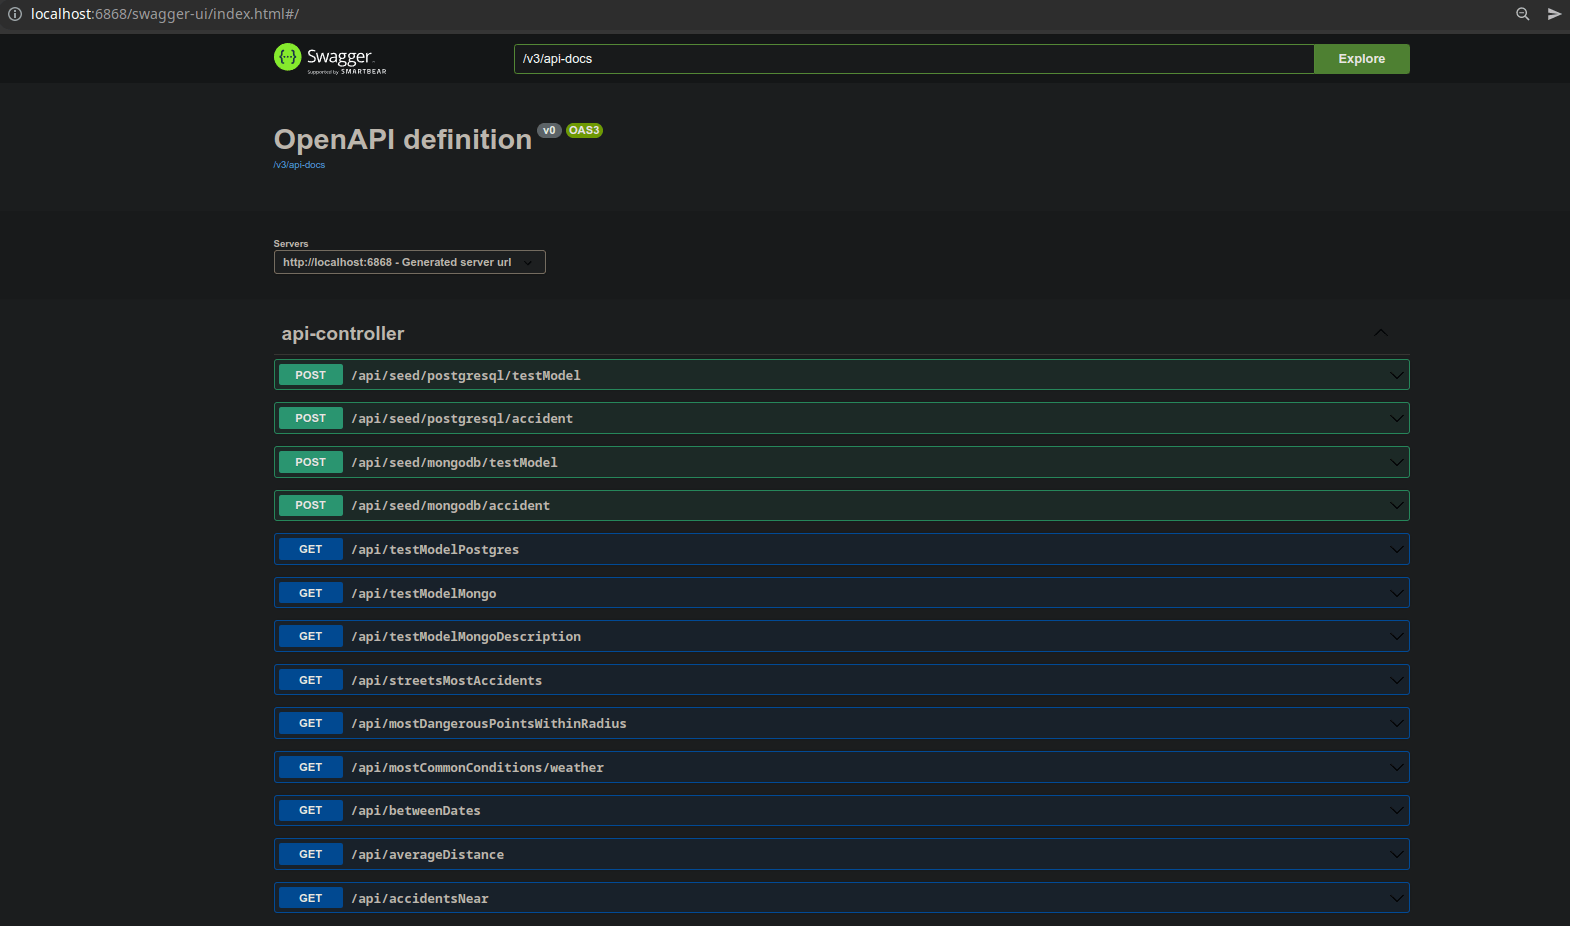
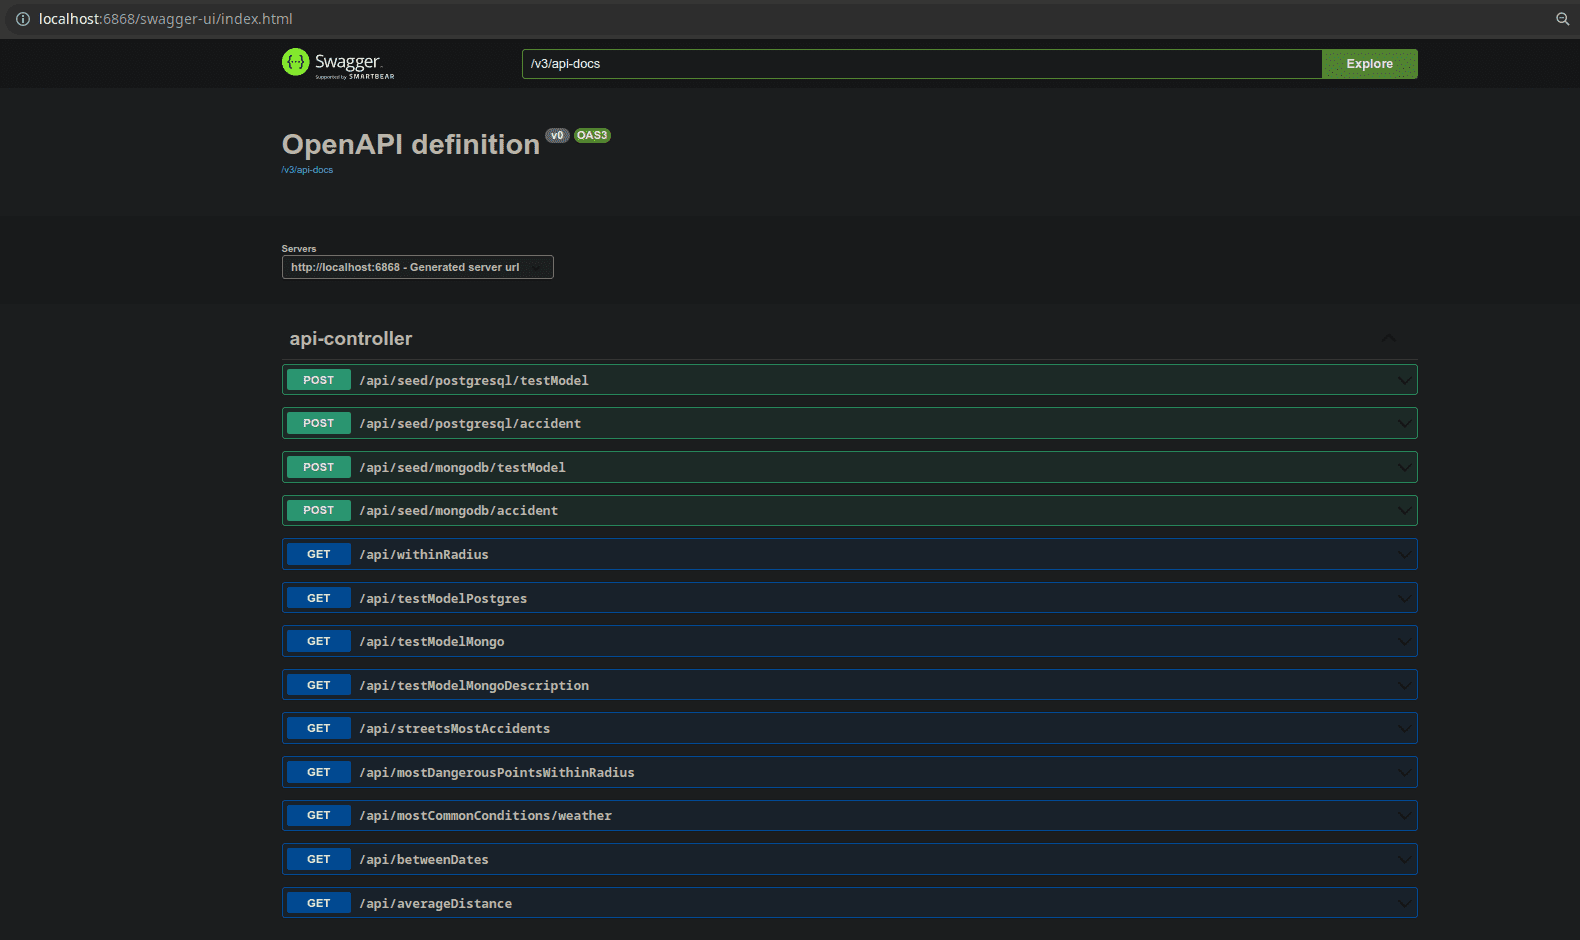
feat: add query & endpoint withinRadius, remove accidentsNear

diff --git a/bbdd2PromocionApp/src/main/java/com/bbdd2promocion/api/APIController.java b/bbdd2PromocionApp/src/main/java/com/bbdd2promocion/api/APIController.java
@@ -12,9 +12,10 @@ import org.springframework.batch.core.JobParametersInvalidException;
 import org.springframework.batch.core.repository.JobExecutionAlreadyRunningException;
 import org.springframework.batch.core.repository.JobInstanceAlreadyCompleteException;
 import org.springframework.batch.core.repository.JobRestartException;
+import org.springframework.data.geo.Circle;
 import org.springframework.data.geo.Distance;
 import org.springframework.data.geo.Metrics;
-import org.springframework.data.mongodb.core.geo.GeoJsonPoint;
+import org.springframework.data.geo.Point;
 import org.springframework.format.annotation.DateTimeFormat;
 import org.springframework.http.HttpStatus;
 import org.springframework.http.ResponseEntity;
@@ -108,15 +109,17 @@ public class APIController {
 		return new ResponseEntity<>(this.getTestModelService().findAllMongo(), HttpStatus.OK);
 	}
 
-	@GetMapping("/accidentsNear")
-	public ResponseEntity<List<Accident>> getAccidentsNear(
+	@GetMapping("/withinRadius")
+	public ResponseEntity<List<Accident>> getAccidentsWithinRadius(
 			@RequestParam(name = "longitude") String longitude,
 			@RequestParam(name = "latitude") String latitude,
-			@RequestParam(name = "radius") String distance
+			@RequestParam(name = "radius") String radius
 	) {
-		return new ResponseEntity<>(this.getAccidentService().findByStartLocationNear(
-				new GeoJsonPoint(Double.parseDouble(longitude), Double.parseDouble(latitude)),
-				new Distance(Double.parseDouble(distance), Metrics.KILOMETERS)
+		return new ResponseEntity<>(this.getAccidentService().findByStartLocationWithinRadius(
+				new Circle(
+						new Point(Double.parseDouble(longitude), Double.parseDouble(latitude)),
+						new Distance(Double.parseDouble(radius), Metrics.KILOMETERS)
+				)
 		), HttpStatus.OK);
 	}
 

diff --git a/bbdd2PromocionApp/src/main/java/com/bbdd2promocion/service/impl/AccidentServiceImpl.java b/bbdd2PromocionApp/src/main/java/com/bbdd2promocion/service/impl/AccidentServiceImpl.java
@@ -12,8 +12,7 @@ import com.bbdd2promocion.repository.mongo.MongoAccidentRepository;
 import com.bbdd2promocion.repository.jpa.projections.ValueCount;
 import com.bbdd2promocion.service.IAccidentService;
 import org.springframework.data.domain.PageRequest;
-import org.springframework.data.geo.Distance;
-import org.springframework.data.geo.Point;
+import org.springframework.data.geo.Circle;
 import org.springframework.stereotype.Service;
 
 import javax.inject.Inject;
@@ -41,8 +40,8 @@ public class AccidentServiceImpl implements IAccidentService {
     private JPAAccidentRepository jpaAccidentRepository;
 
     @Override
-    public List<Accident> findByStartLocationNear(Point location, Distance distance) {
-        return this.getAccidentMongoRepository().findByStartLocationNear(location, distance);
+    public List<Accident> findByStartLocationWithinRadius(Circle circle) {
+        return this.getAccidentMongoRepository().findByStartLocationWithin(circle);
     }
 
     @Override

diff --git a/bbdd2PromocionApp/src/main/java/com/bbdd2promocion/repository/mongo/MongoAccidentRepository.java b/bbdd2PromocionApp/src/main/java/com/bbdd2promocion/repository/mongo/MongoAccidentRepository.java
@@ -2,8 +2,7 @@ package com.bbdd2promocion.repository.mongo;
 
 import com.bbdd2promocion.model.Accident;
 import com.bbdd2promocion.repository.mongo.projections.LocationCount;
-import org.springframework.data.geo.Distance;
-import org.springframework.data.geo.Point;
+import org.springframework.data.geo.Circle;
 import org.springframework.data.mongodb.core.aggregation.AggregationResults;
 import org.springframework.data.mongodb.repository.Aggregation;
 import org.springframework.data.mongodb.repository.MongoRepository;
@@ -14,8 +13,7 @@ import java.util.List;
 @Repository
 public interface MongoAccidentRepository extends MongoRepository<Accident, String> {
 
-    // { 'startLocation' : { '$near' : [point.x, point.y], '$maxDistance' : distance}}
-    List<Accident> findByStartLocationNear(Point location, Distance distance);
+    List<Accident> findByStartLocationWithin(Circle circle);
 
     @Aggregation(pipeline = {
             "{\n" +

diff --git a/bbdd2PromocionApp/src/main/java/com/bbdd2promocion/service/IAccidentService.java b/bbdd2PromocionApp/src/main/java/com/bbdd2promocion/service/IAccidentService.java
@@ -7,9 +7,7 @@ import com.bbdd2promocion.helpers.ConditionValues;
 import com.bbdd2promocion.model.Accident;
 import com.bbdd2promocion.repository.jpa.projections.StreetStatistics;
 import com.bbdd2promocion.repository.mongo.projections.LocationCount;
-import com.bbdd2promocion.service.impl.AccidentServiceImpl;
-import org.springframework.data.geo.Distance;
-import org.springframework.data.geo.Point;
+import org.springframework.data.geo.Circle;
 
 import java.util.Date;
 import java.util.List;
@@ -25,7 +23,7 @@ public interface IAccidentService {
      *
      * @return los Accident ocurridos dentro del radio
      */
-    List<Accident> findByStartLocationNear(Point location, Distance distance);
+    List<Accident> findByStartLocationWithinRadius(Circle circle);
 
     /**
      * Obtiene la distancia promedio desde el inicio al fin del accidente

diff --git a/README.md b/README.md
@@ -34,7 +34,7 @@ Alternativamente, se provee una [colección de Postman](bd2-promocion.postman_co
 
 ## API - Query endpoints
 
-1. /accidentsNear 
+1. /withinRadius 
    
     ```
     Retorna los Accident ocurridos dentro del radio 
